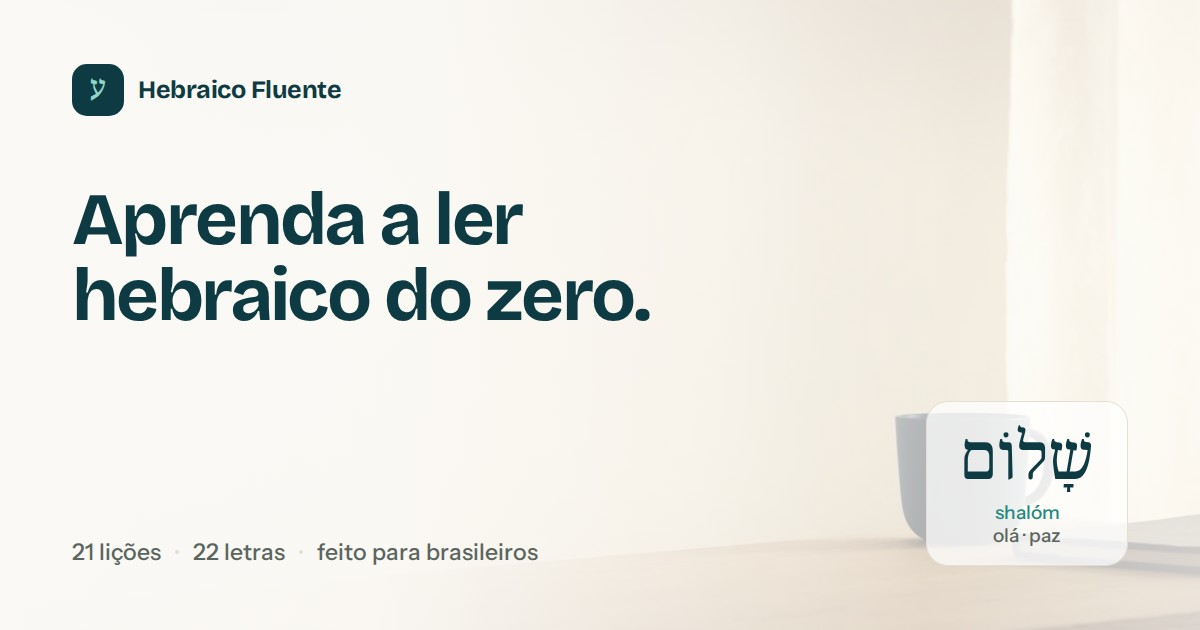
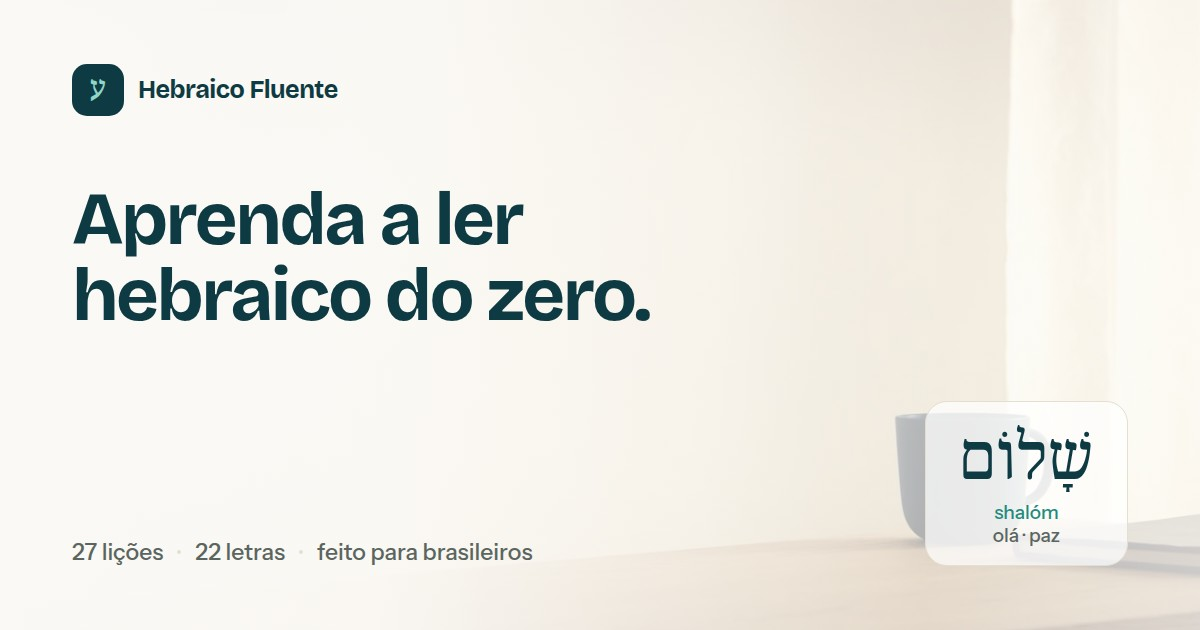
Preço cheio sem traço, com a data do fim do pré-lançamento; og.jpg com 27 lições
O R$ 297 aparecia riscado em cinco lugares sem nunca ter sido praticado,
que é preço de referência (auditoria de 28/09, LEGAL-014). Agora ele
aparece como o preço de depois, com a data em que o pré-lançamento acaba:
31/10/2026, decisão do dono, em data/courses.json (preLancamentoAte). O
cartão do WhatsApp dizia 21 lições desde antes das lições de som (COM-001);
regerado por tools/og.mjs, diz 27.

Claude-Session: https://claude.ai/code/session_01KjhhohBJPksCXsQaz4bx5A

diff --git a/app/src/components/landing/Fecho.tsx b/app/src/components/landing/Fecho.tsx
@@ -24,7 +24,7 @@ import Link from 'next/link';
 import { useState } from 'react';
 import { He } from '@/components/hebrew/He';
 import { audioAvailable } from '@/components/learn/AudioButton';
-import { ancora, brl, flagship, parcelasMax, pixPrice } from '@/lib/catalog';
+import { ancora, brl, fimDoPreLancamento, flagship, parcelasMax, pixPrice } from '@/lib/catalog';
 import { course, totalLicoes } from '@/lib/content-publico';
 import { METODO_ORIGINAL } from '@/lib/credito';
 import { DEPOIMENTOS } from '@/lib/testimonials';
@@ -386,11 +386,6 @@ export function Preco({ href, label, owned }: { href: string; label: string; own
                               text-[var(--teal-ink)] mb-1.5">
                   {cheio ? 'Preço de pré-lançamento' : 'Acesso completo'}
                 </p>
-                {cheio && (
-                  <p className="font-ui text-[16px] text-ink-muted line-through leading-none mb-1">
-                    {brl(cheio)}
-                  </p>
-                )}
                 <p className="font-display text-[44px] sm:text-[48px] font-semibold tracking-[-0.035em]
                               leading-none text-ink mb-1">
                   {brl(soPix() ? pix : c.price.brl)}
@@ -437,7 +432,9 @@ export function Preco({ href, label, owned }: { href: string; label: string; own
                 sozinha no dia em que o listBrl virar null. */}
             {!owned && cheio && (
               <p className="mt-2 font-ui text-[13.5px] leading-[1.5] font-medium text-[var(--teal-ink)]">
-                Depois do pré-lançamento, o curso passa a custar {brl(cheio)}.
+                {fimDoPreLancamento(c.price)
+                  ? <>Preço de pré-lançamento até {fimDoPreLancamento(c.price)}. Depois, o curso passa a custar {brl(cheio)}.</>
+                  : <>Depois do pré-lançamento, o curso passa a custar {brl(cheio)}.</>}
               </p>
             )}
           </div>

diff --git a/app/src/components/platform/CourseCard.tsx b/app/src/components/platform/CourseCard.tsx
@@ -18,7 +18,7 @@
 
 import Link from 'next/link';
 import { Card, Badge } from '@/components/ui/Card';
-import { ancora, brl, isPlayable, parcelasMax, pixPrice, type CatalogCourse } from '@/lib/catalog';
+import { ancora, brl, isPlayable, parcelasMax, pixPrice, type CatalogCourse, fimDoPreLancamento } from '@/lib/catalog';
 import { soPix } from '@/lib/empresa';
 
 export type CourseCardState = 'owned' | 'available' | 'soon' | 'locked';
@@ -109,13 +109,14 @@ export function CourseCard({
             </>
           ) : (
             <>
-              {/* O riscado antes do preço, e não depois: quem varre a grade lê
-                  o primeiro número como o preço. Ver `ancora()` em catalog.ts. */}
-              {ancora(course.price) && (
-                <span className="line-through">{brl(ancora(course.price)!)}{' '}</span>
-              )}
+              {/* Sem número riscado desde 28/09/2026 (auditoria, LEGAL-014):
+                  o preço cheio aparece como o que ele é, o de depois do
+                  pré-lançamento. Ver `fimDoPreLancamento()` em catalog.ts. */}
               <strong className="font-semibold text-ink">{brl(course.price.brl)}</strong>
               {' '}ou em até {parcelasMax(course.price)}x no cartão
+              {ancora(course.price) && (
+                <>{' '}· pré-lançamento{fimDoPreLancamento(course.price) ? ` até ${fimDoPreLancamento(course.price)}` : ''}, depois {brl(ancora(course.price)!)}</>
+              )}
             </>
           )}
         </p>

diff --git a/app/src/app/faq/page.tsx b/app/src/app/faq/page.tsx
@@ -5,7 +5,7 @@ import { Card } from '@/components/ui/Card';
 import { Section, SectionHead } from '@/components/platform/Section';
 import { confirmaSozinho, empresa, soPix } from '@/lib/empresa';
 import { FaixaCta } from '@/components/platform/ProximoPasso';
-import { ancora, flagship, brl, parcelasMax, pixPrice } from '@/lib/catalog';
+import { ancora, flagship, brl, fimDoPreLancamento, parcelasMax, pixPrice } from '@/lib/catalog';
 import { course, totalLicoes } from '@/lib/content-publico';
 import { AUDIO_MANIFEST } from '@/lib/audio-manifest';
 
@@ -81,7 +81,7 @@ const FAQ: { q: string; a: string[]; link?: { href: string; label: string } }[] 
           /* A frase só existe enquanto o preço for promocional: quando o
              listBrl virar null, ela some sozinha. Ver `ancora()`. */
           ...(ancora(c.price)
-            ? [`Esse é o preço de pré-lançamento. Depois dele, o curso passa a custar ${brl(ancora(c.price)!)}. Quem compra agora paga uma vez e fica com os ${c.accessMonths} meses de acesso.`]
+            ? [`Esse é o preço de pré-lançamento${fimDoPreLancamento(c.price) ? `, válido até ${fimDoPreLancamento(c.price)}` : ''}. Depois dele, o curso passa a custar ${brl(ancora(c.price)!)}. Quem compra agora paga uma vez e fica com os ${c.accessMonths} meses de acesso.`]
             : []),
           /* O valor da parcela não é anunciado aqui de propósito: os juros do
              cartão são repassados, então quem fecha esse número é a operadora.

diff --git a/app/tests/vitrine.test.ts b/app/tests/vitrine.test.ts
@@ -197,3 +197,30 @@ describe('a vitrine também não NEGA o que o curso entrega', () => {
     expect(alem).not.toContain('href="/historia"');
   });
 });
+
+/* ── preço de pré-lançamento (auditoria de 28/09/2026, LEGAL-014) ────────
+   O R$ 297 nunca foi praticado, então não pode aparecer riscado: número
+   riscado é preço de referência. Ele aparece como o preço de DEPOIS, com a
+   data em que o pré-lançamento acaba (decisão do dono: 31/10/2026). */
+describe('o preço cheio não aparece riscado', () => {
+  it('nenhuma tela usa line-through', async () => {
+    const { readdirSync, statSync } = await import('node:fs');
+    const { join } = await import('node:path');
+    const raiz = new URL('../src/', import.meta.url).pathname;
+    const achados: string[] = [];
+    const varre = (d: string) => {
+      for (const n of readdirSync(d)) {
+        const p = join(d, n);
+        if (statSync(p).isDirectory()) varre(p);
+        else if (/\.(tsx|ts|css)$/.test(n) && readFileSync(p, 'utf8').includes('line-through')) achados.push(p);
+      }
+    };
+    varre(raiz);
+    expect(achados).toEqual([]);
+  });
+
+  it('a data de fim sai do catálogo, no formato brasileiro', async () => {
+    const { fimDoPreLancamento, flagship } = await import('@/lib/catalog');
+    expect(fimDoPreLancamento(flagship().price)).toBe('31/10/2026');
+  });
+});

diff --git a/app/src/app/checkout/[slug]/CheckoutClient.tsx b/app/src/app/checkout/[slug]/CheckoutClient.tsx
@@ -37,7 +37,7 @@ import { Button, LinkButton } from '@/components/ui/Button';
 import { He } from '@/components/hebrew/He';
 import { useAccount } from '@/lib/account/store';
 import { AuthError, MESSAGES, daysLeft, type Order, type PaymentMethod } from '@/lib/account/types';
-import { ancora, brl, getCourse, parcelasMax, pixPrice, type CatalogCourse } from '@/lib/catalog';
+import { ancora, brl, fimDoPreLancamento, getCourse, parcelasMax, pixPrice, type CatalogCourse } from '@/lib/catalog';
 import { confirmaSozinho, empresa, formasAtivas, soPix, temPix } from '@/lib/empresa';
 import { AuthForm } from '@/components/platform/AuthForm';
 import { track } from '@/lib/analytics';
@@ -588,7 +588,7 @@ function Shell({ course, children }: {
                 sozinho não responde isso. Ver `ancora()` em lib/catalog.ts. */}
             {cheio && (
               <p className="font-ui text-[11px] uppercase tracking-[.08em] text-[var(--accent)]">
-                Pré-lançamento · de <span className="line-through">{brl(cheio)}</span>
+                Pré-lançamento{fimDoPreLancamento(c.price) ? ` até ${fimDoPreLancamento(c.price)}` : ''} · depois, {brl(cheio)}
               </p>
             )}
             <p className="font-display text-[26px] font-bold text-ink leading-none">

diff --git a/app/src/app/cursos/[slug]/CourseClient.tsx b/app/src/app/cursos/[slug]/CourseClient.tsx
@@ -22,7 +22,7 @@ import { Prose } from '@/components/hebrew/Prose';
 import { Card, Badge } from '@/components/ui/Card';
 import { LinkButton } from '@/components/ui/Button';
 import { Section, SectionHead } from '@/components/platform/Section';
-import { ancora, brl, getCourse, isPlayable, parcelasMax, pixPrice } from '@/lib/catalog';
+import { ancora, brl, fimDoPreLancamento, getCourse, isPlayable, parcelasMax, pixPrice } from '@/lib/catalog';
 import { useAccount } from '@/lib/account/store';
 import { confirmaSozinho, empresa, soPix, temCartao, temPix } from '@/lib/empresa';
 
@@ -294,7 +294,9 @@ function BuyBox({ slug }: { slug: string }) {
           </p>
         )}
         {cheio && (
-          <p className="font-ui text-[14px] text-ink-muted line-through">{brl(cheio)}</p>
+          <p className="font-ui text-[13px] text-ink-muted">
+            {fimDoPreLancamento(c.price) ? `Até ${fimDoPreLancamento(c.price)}. ` : ''}Depois, {brl(cheio)}.
+          </p>
         )}
         {/* O preço em destaque é o preço que vai ser cobrado. Com só PIX no ar,
             o desconto deixa de ser alternativa e passa a ser o preço, e o valor

diff --git a/app/src/lib/catalog.ts b/app/src/lib/catalog.ts
@@ -42,6 +42,8 @@ export type CoursePrice = {
   installments: number;
   /** Desconto no PIX, em pontos percentuais. 0 desliga a linha inteira. */
   pixDiscountPct: number;
+  /** Último dia do preço de pré-lançamento (AAAA-MM-DD), quando há. */
+  preLancamentoAte?: string | null;
 };
 
 export type CatalogModule = {
@@ -163,3 +165,16 @@ export const parcelasMax = (p: CoursePrice): number => Math.max(1, p.installment
  */
 export const ancora = (p: CoursePrice): number | null =>
   p.listBrl !== null && p.listBrl > p.brl ? p.listBrl : null;
+
+/**
+ * Até quando vale o preço de pré-lançamento, como as telas escrevem
+ * ("31/10/2026"), ou null. Sem traço no preço cheio desde 28/09/2026
+ * (auditoria, LEGAL-014): um número riscado é preço de referência, e o
+ * R$ 297 nunca foi praticado. No lugar dele, a frase com a data de fim.
+ */
+export function fimDoPreLancamento(p: CoursePrice): string | null {
+  const d = ancora(p) && p.preLancamentoAte;
+  if (!d || !/^\d{4}-\d{2}-\d{2}$/.test(d)) return null;
+  const [a, m, dia] = d.split('-');
+  return `${dia}/${m}/${a}`;
+}
